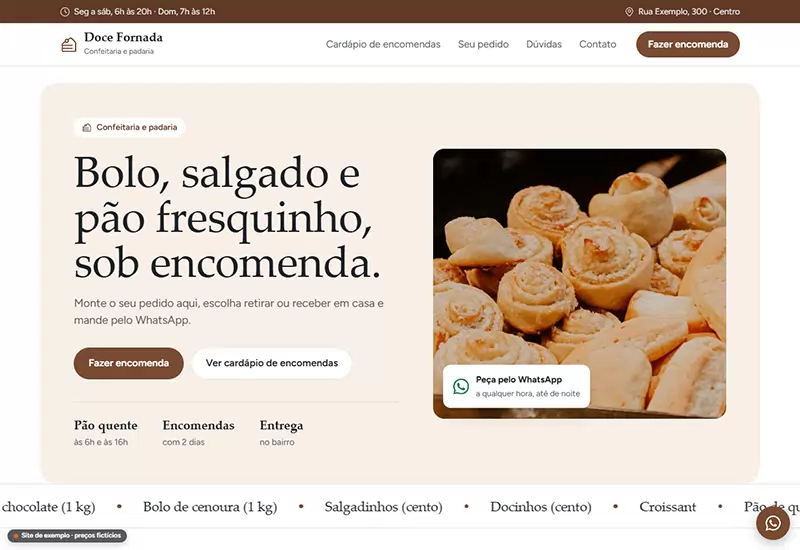
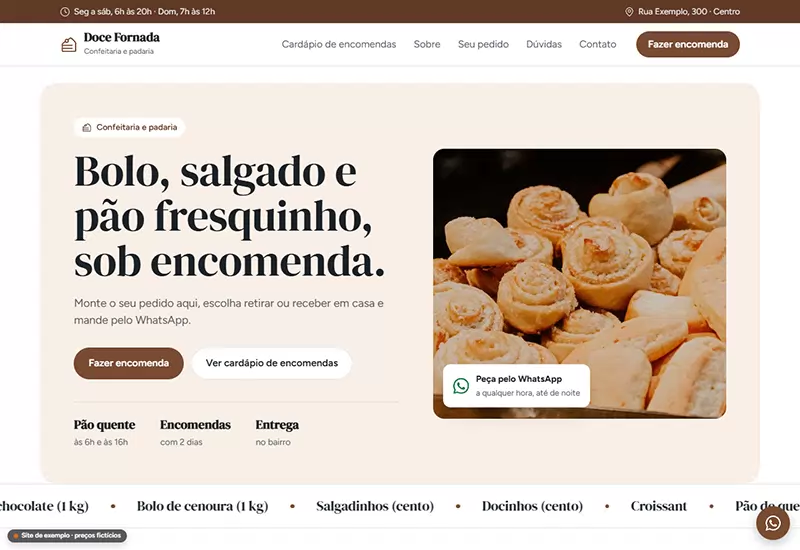
Modelos do molde, grupo alimentação e pet (confeitaria, pizzaria, pet shop): fonte própria e seção Sobre; prévias refeitas

diff --git a/modelos/molde/negocios.js b/modelos/molde/negocios.js
@@ -436,6 +436,12 @@ export const NEGOCIOS = {
 
   confeitaria: {
     nome: 'Doce Fornada', curto: 'Doce Fornada', tipo: 'Confeitaria e padaria', icone: 'cake-slice',
+    fonte: ['DM Serif Display', '400'],
+    sobre: {
+      titulo: 'Feito aqui, no dia, com receita de casa.',
+      texto: 'Bolos, doces e salgados saem da nossa cozinha, sem massa pronta. As encomendas são preparadas para chegar fresquinhas na data da sua festa.',
+      pontos: ['Massa feita aqui, todo dia', 'Retirada ou entrega na data marcada', 'Valor confirmado antes de começar']
+    },
     cores: ['#7A4B32', '#5F3A27', '#F8EFE6'], layout: 'cartao', serif: true,
     horario: 'Seg a sáb, 6h às 20h · Dom, 7h às 12h', endereco: 'Rua Exemplo, 300 · Centro',
     selo: 'Confeitaria e padaria',
@@ -481,6 +487,12 @@ export const NEGOCIOS = {
 
   pizzaria: {
     nome: 'Bella Massa Pizzaria', curto: 'Bella Massa', tipo: 'Pizzaria e delivery', icone: 'pizza',
+    fonte: ['Archivo', '700;800'],
+    sobre: {
+      titulo: 'Pizza artesanal, do forno direto para a sua casa.',
+      texto: 'A massa descansa por muitas horas antes de ir para o forno a lenha. É isso que deixa a borda leve e crocante, do jeito que pizza tem de ser.',
+      pontos: ['Massa de longa fermentação', 'Forno a lenha', 'Pedido direto pelo WhatsApp, sem aplicativo no meio']
+    },
     cores: ['#B23A2E', '#8E2E25', '#FBEDEA'], layout: 'foto', reto: true, escuro: true,
     horario: 'Ter a dom, 18h às 23h30', endereco: 'Av. Exemplo, 900 · Centro',
     selo: 'Pizzaria e delivery',
@@ -526,6 +538,12 @@ export const NEGOCIOS = {
 
   petshop: {
     nome: 'Pet Amigo', curto: 'Pet Amigo', tipo: 'Pet shop, banho e tosa', icone: 'dog',
+    fonte: ['Baloo 2', '600;700'],
+    sobre: {
+      titulo: 'Banho e tosa com carinho e sem pressa.',
+      texto: 'Cada pet é atendido no seu tempo, com produtos próprios para a pele dele. Quando fica pronto, você recebe uma foto pelo WhatsApp e combina a busca.',
+      pontos: ['Produtos próprios para cada pelagem', 'Busca e entrega em casa', 'Foto pelo WhatsApp quando fica pronto']
+    },
     cores: ['#A8621F', '#874E18', '#FBF1E4'], layout: 'dividido',
     horario: 'Seg a sáb, 8h às 18h', endereco: 'Rua Exemplo, 520 · Centro',
     selo: 'Pet shop, banho e tosa',
